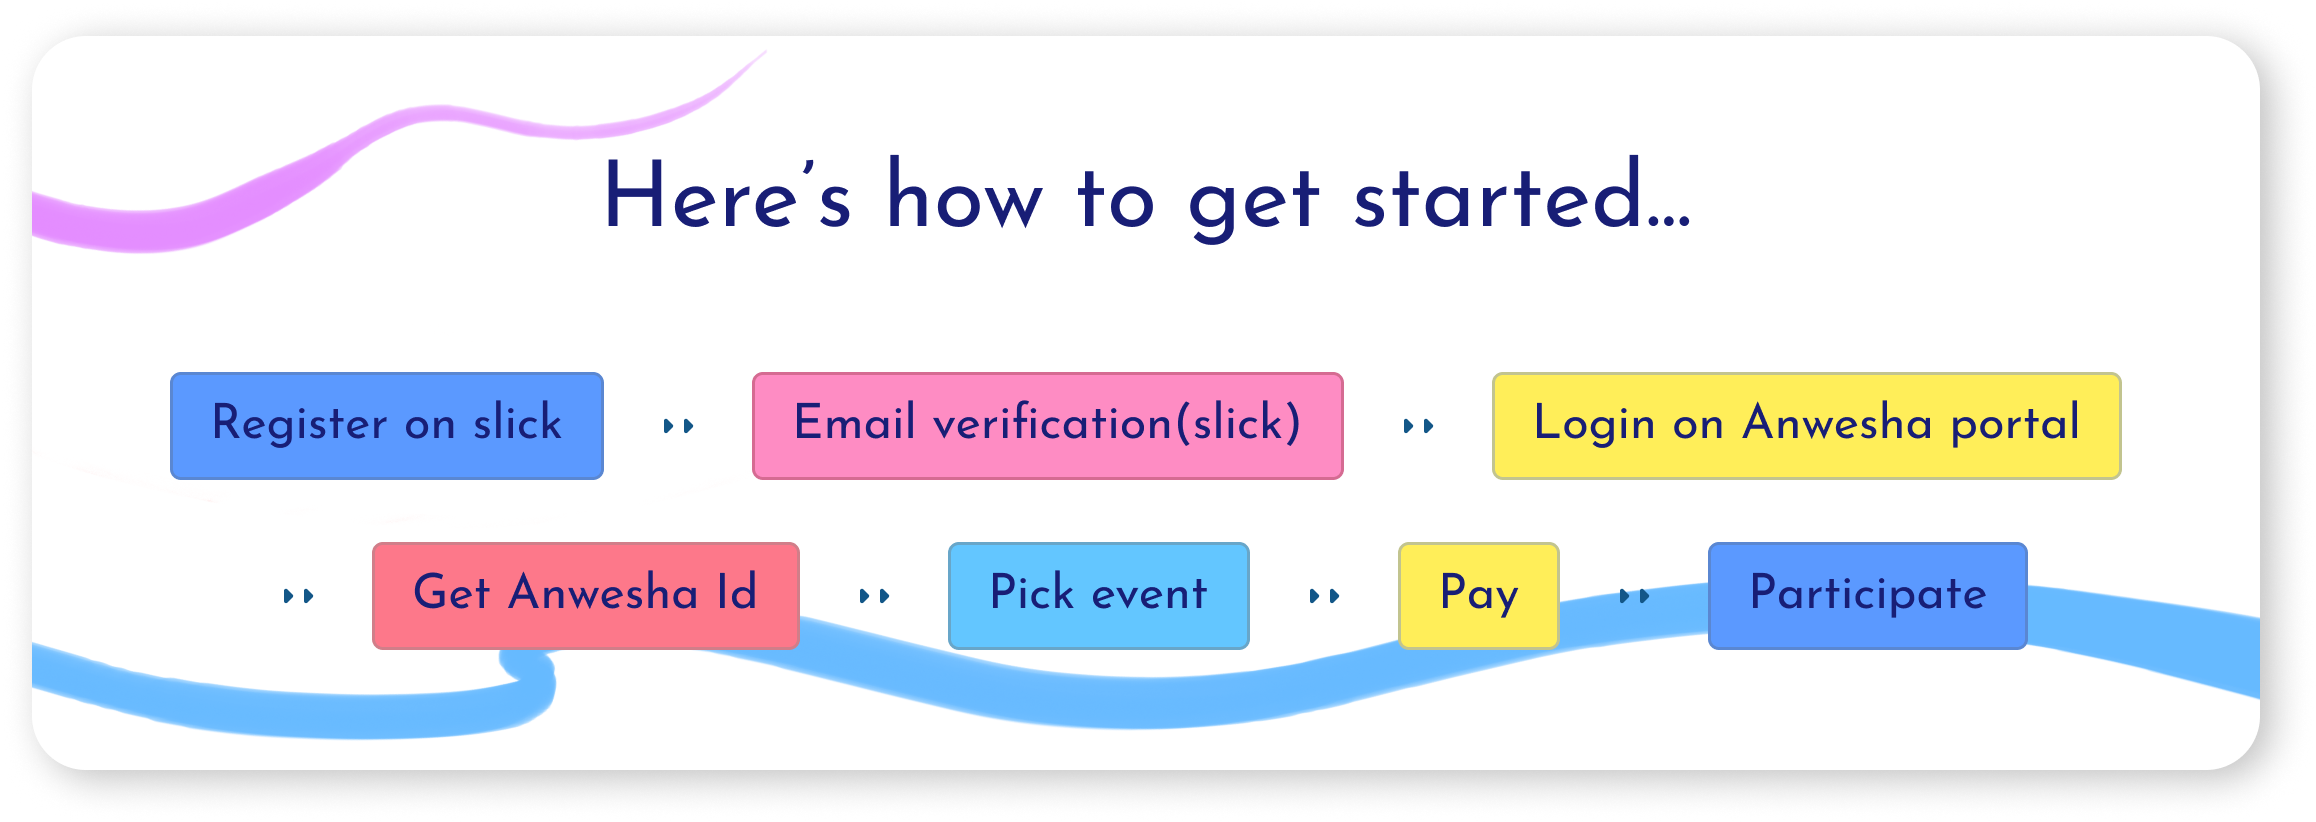
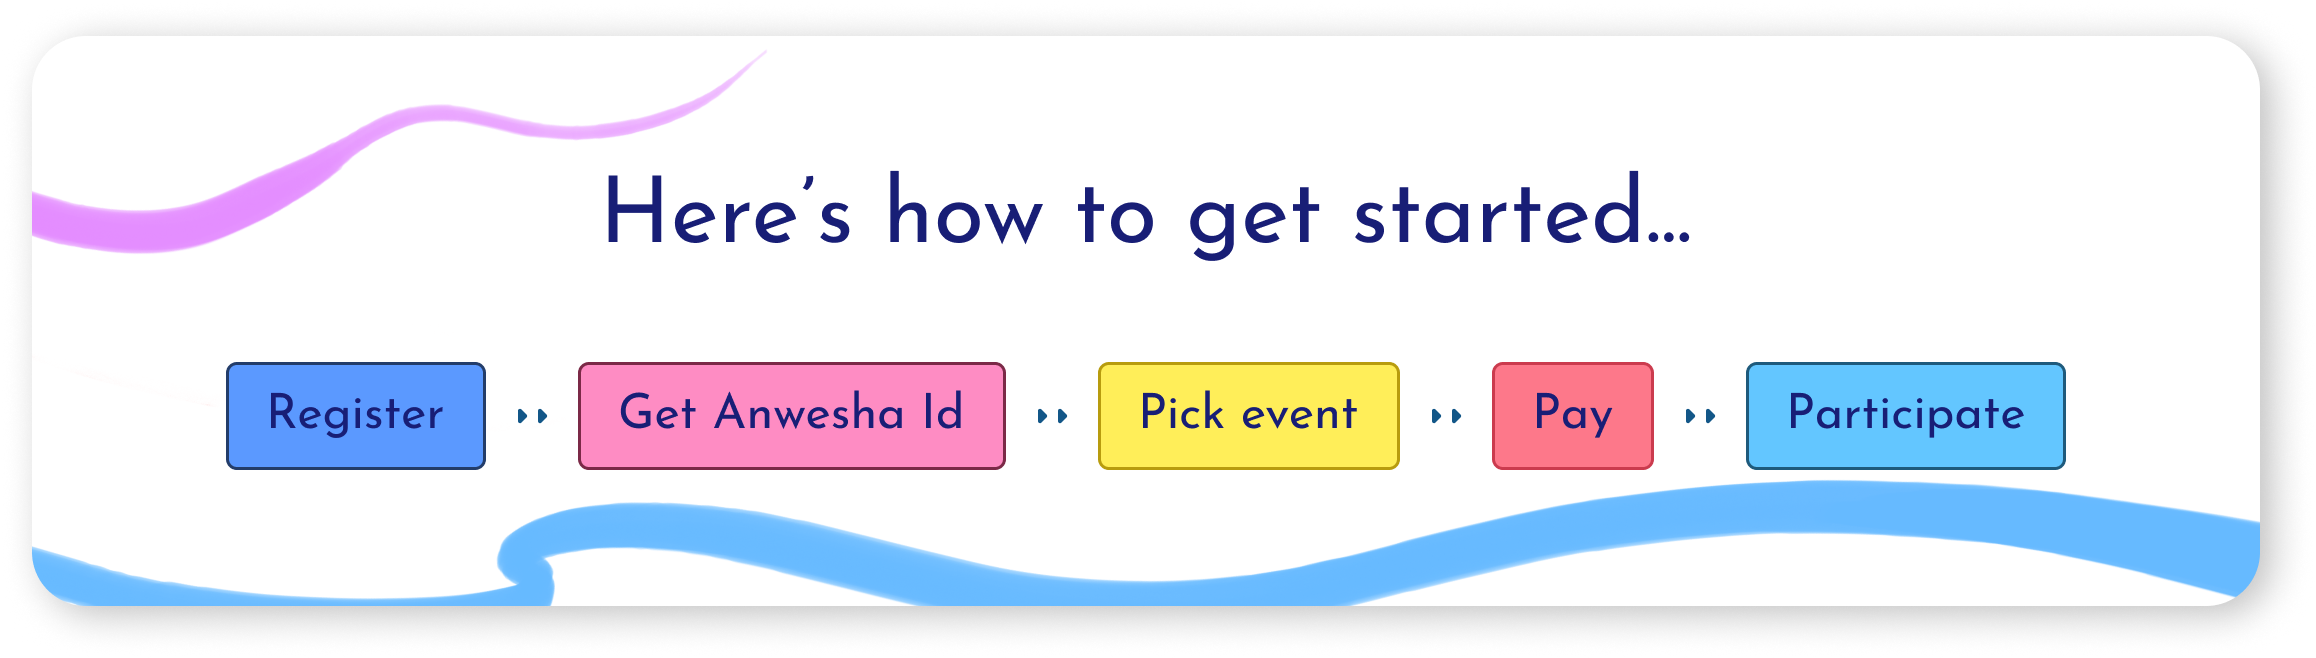
steps updated on landing page

diff --git a/styles/homepage.module.css b/styles/homepage.module.css
@@ -86,7 +86,7 @@ line-height: normal;
 
 .steps{
     width: 1114px;
-    height:367px;
+    height:285px;
     background: url("/home/steps.png");
     background-repeat: no-repeat;
     background-position: center;
